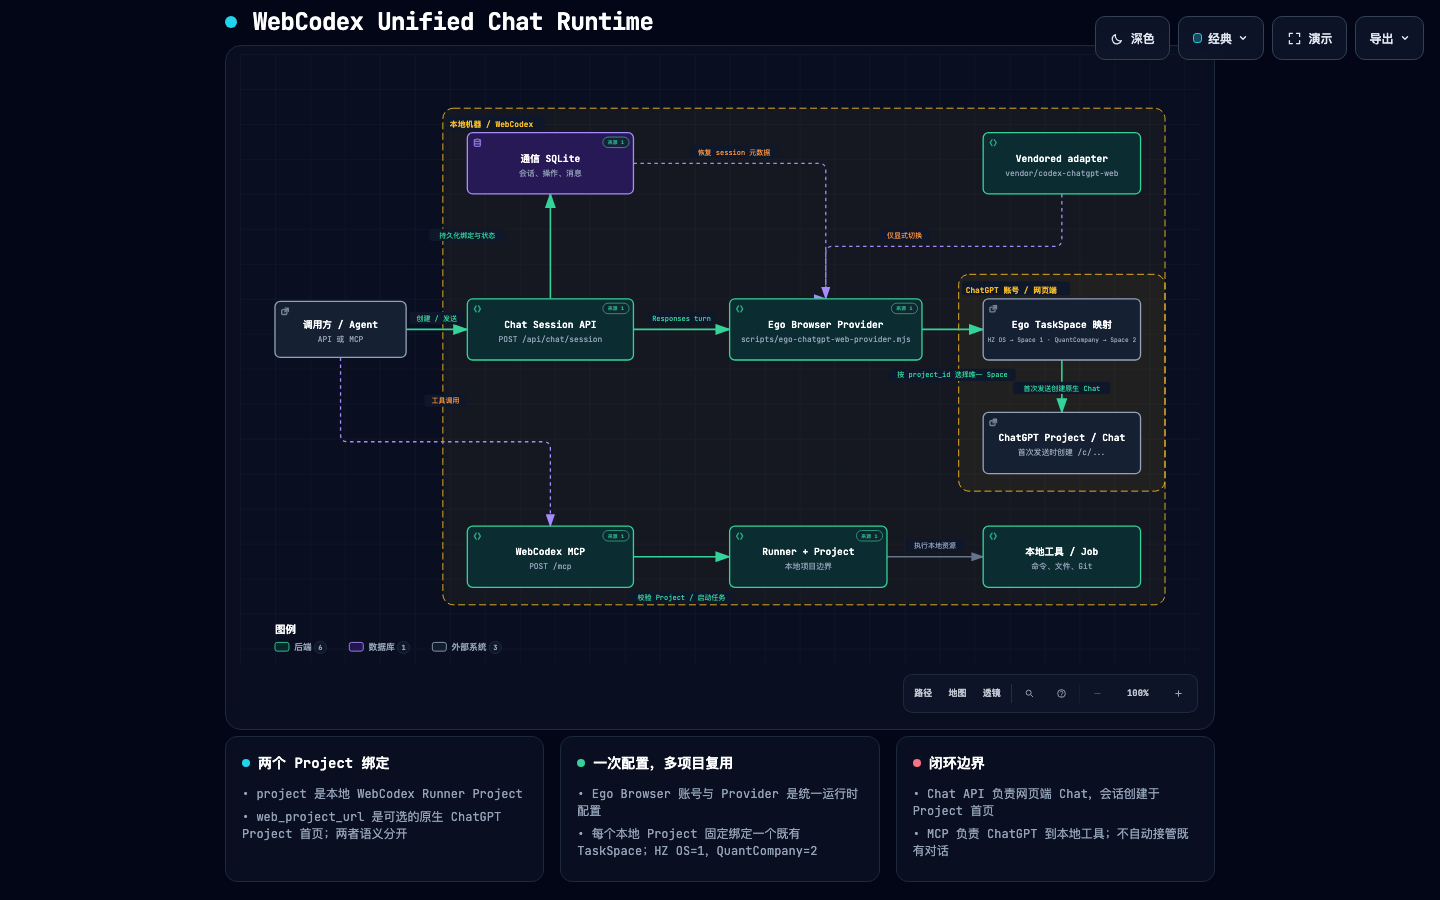
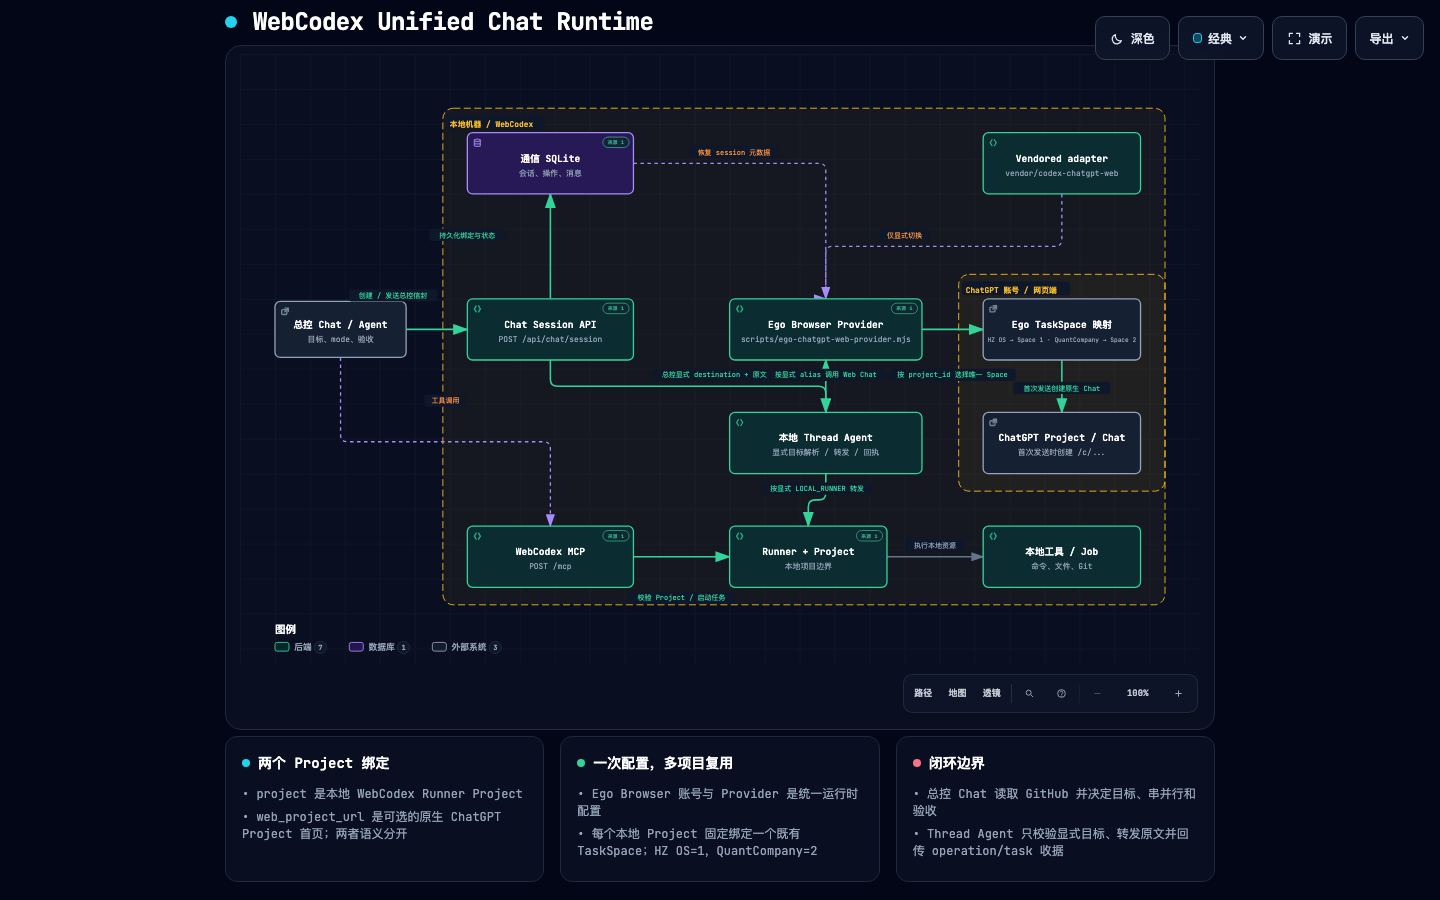
docs: keep routing decisions in controller chat

diff --git a/docs/architecture/archify/runtime.architecture.html b/docs/architecture/archify/runtime.architecture.html
@@ -5161,28 +5161,30 @@ OTHER DEALINGS IN THE FONT SOFTWARE.
         <rect data-graph-role="structural-frame" data-composition-frame-kind="region" data-composition-frame-id="1" data-composition-frame-label="ChatGPT 账号 / 网页端" x="822" y="252" width="236" height="248" rx="12" class="c-region" stroke-width="1"/>
 
         <!-- Connection paths (before components for correct z-order) -->
-        <path data-edge-from="caller" data-edge-to="chat_api" data-edge-label="创建 / 发送" data-edge-key="0" data-edge-id="caller-chat" data-composition-points="190,315;225,315;225,315;260,315" d="M 190 315 L 225 315 L 225 315 L 260 315" class="a-emphasis" stroke-width="1.8" marker-end="url(#arrowhead-emphasis)"/>
+        <path data-edge-from="caller" data-edge-to="chat_api" data-edge-label="创建 / 发送总控信封" data-edge-key="0" data-edge-id="caller-chat" data-composition-points="190,315;225,315;225,315;260,315" d="M 190 315 L 225 315 L 225 315 L 260 315" class="a-emphasis" stroke-width="1.8" marker-end="url(#arrowhead-emphasis)"/>
         <path data-edge-from="caller" data-edge-to="local_mcp" data-edge-label="工具调用" data-edge-key="1" data-edge-id="caller-mcp" data-composition-points="115,347;115,443.5;355,443.5;355,540" d="M 115 347 L 115 435.5 Q 115 443.5 123 443.5 L 347 443.5 Q 355 443.5 355 451.5 L 355 540" class="a-dashed" stroke-width="1.5" marker-end="url(#arrowhead-dashed)"/>
         <path data-edge-from="chat_api" data-edge-to="store" data-edge-label="持久化绑定与状态" data-edge-key="2" data-edge-id="chat-store" data-composition-points="355,280;355,220;355,220;355,160" d="M 355 280 L 355 220 L 355 220 L 355 160" class="a-emphasis" stroke-width="1.8" marker-end="url(#arrowhead-emphasis)"/>
         <path data-edge-from="local_mcp" data-edge-to="runner" data-edge-label="校验 Project / 启动任务" data-edge-key="3" data-edge-id="mcp-runner" data-composition-points="450,575;505,575;505,575;560,575" d="M 450 575 L 505 575 L 505 575 L 560 575" class="a-emphasis" stroke-width="1.8" marker-end="url(#arrowhead-emphasis)"/>
-        <path data-edge-from="chat_api" data-edge-to="provider" data-edge-label="Responses turn" data-edge-key="4" data-edge-id="chat-provider" data-composition-points="450,315;505,315;505,315;560,315" d="M 450 315 L 505 315 L 505 315 L 560 315" class="a-emphasis" stroke-width="1.8" marker-end="url(#arrowhead-emphasis)"/>
-        <path data-edge-from="provider" data-edge-to="taskspace" data-edge-label="按 project_id 选择唯一 Space" data-edge-key="5" data-edge-id="provider-taskspace" data-composition-points="780,315;815,315;815,315;850,315" d="M 780 315 L 815 315 L 815 315 L 850 315" class="a-emphasis" stroke-width="1.8" marker-end="url(#arrowhead-emphasis)"/>
-        <path data-edge-from="taskspace" data-edge-to="web_project" data-edge-label="首次发送创建原生 Chat" data-edge-key="6" data-edge-id="taskspace-project" data-composition-points="940,350;940,410" d="M 940 350 L 940 410" class="a-emphasis" stroke-width="1.8" marker-end="url(#arrowhead-emphasis)"/>
-        <path data-edge-from="runner" data-edge-to="local_tools" data-edge-label="执行本地资源" data-edge-key="7" data-edge-id="runner-tools" data-composition-points="740,575;795,575;795,575;850,575" d="M 740 575 L 795 575 L 795 575 L 850 575" class="a-default" stroke-width="1.5" marker-end="url(#arrowhead)"/>
-        <path data-edge-from="fallback" data-edge-to="provider" data-edge-label="仅显式切换" data-edge-key="8" data-edge-id="fallback-provider" data-composition-points="940,160;940,220;670,220;670,280" d="M 940 160 L 940 212 Q 940 220 932 220 L 678 220 Q 670 220 670 228 L 670 280" class="a-dashed" stroke-width="1.5" marker-end="url(#arrowhead-dashed)"/>
-        <path data-edge-from="store" data-edge-to="provider" data-edge-label="恢复 session 元数据" data-edge-key="9" data-edge-id="store-provider" data-composition-points="450,125;470,125;670,125;670,280;670,280" d="M 450 125 L 462 125 Q 470 125 478 125 L 662 125 Q 670 125 670 133 L 670 280 L 670 280" class="a-dashed" stroke-width="1.5" marker-end="url(#arrowhead-dashed)"/>
+        <path data-edge-from="thread_agent" data-edge-to="provider" data-edge-label="按显式 alias 调用 Web Chat" data-edge-key="4" data-edge-id="chat-provider" data-composition-points="670,410;670,380;670,380;670,350" d="M 670 410 L 670 380 L 670 380 L 670 350" class="a-emphasis" stroke-width="1.8" marker-end="url(#arrowhead-emphasis)"/>
+        <path data-edge-from="chat_api" data-edge-to="thread_agent" data-edge-label="总控显式 destination + 原文" data-edge-key="5" data-edge-id="chat-thread-agent" data-composition-points="355,350;355,380;670,380;670,410" d="M 355 350 L 355 372 Q 355 380 363 380 L 662 380 Q 670 380 670 388 L 670 410" class="a-emphasis" stroke-width="1.8" marker-end="url(#arrowhead-emphasis)"/>
+        <path data-edge-from="thread_agent" data-edge-to="runner" data-edge-label="按显式 LOCAL_RUNNER 转发" data-edge-key="6" data-edge-id="thread-runner" data-composition-points="670,480;670,510;650,510;650,540" d="M 670 480 L 670 502 Q 670 510 662 510 L 658 510 Q 650 510 650 518 L 650 540" class="a-emphasis" stroke-width="1.8" marker-end="url(#arrowhead-emphasis)"/>
+        <path data-edge-from="provider" data-edge-to="taskspace" data-edge-label="按 project_id 选择唯一 Space" data-edge-key="7" data-edge-id="provider-taskspace" data-composition-points="780,315;815,315;815,315;850,315" d="M 780 315 L 815 315 L 815 315 L 850 315" class="a-emphasis" stroke-width="1.8" marker-end="url(#arrowhead-emphasis)"/>
+        <path data-edge-from="taskspace" data-edge-to="web_project" data-edge-label="首次发送创建原生 Chat" data-edge-key="8" data-edge-id="taskspace-project" data-composition-points="940,350;940,410" d="M 940 350 L 940 410" class="a-emphasis" stroke-width="1.8" marker-end="url(#arrowhead-emphasis)"/>
+        <path data-edge-from="runner" data-edge-to="local_tools" data-edge-label="执行本地资源" data-edge-key="9" data-edge-id="runner-tools" data-composition-points="740,575;795,575;795,575;850,575" d="M 740 575 L 795 575 L 795 575 L 850 575" class="a-default" stroke-width="1.5" marker-end="url(#arrowhead)"/>
+        <path data-edge-from="fallback" data-edge-to="provider" data-edge-label="仅显式切换" data-edge-key="10" data-edge-id="fallback-provider" data-composition-points="940,160;940,220;670,220;670,280" d="M 940 160 L 940 212 Q 940 220 932 220 L 678 220 Q 670 220 670 228 L 670 280" class="a-dashed" stroke-width="1.5" marker-end="url(#arrowhead-dashed)"/>
+        <path data-edge-from="store" data-edge-to="provider" data-edge-label="恢复 session 元数据" data-edge-key="11" data-edge-id="store-provider" data-composition-points="450,125;470,125;670,125;670,280;670,280" d="M 450 125 L 462 125 Q 470 125 478 125 L 662 125 Q 670 125 670 133 L 670 280 L 670 280" class="a-dashed" stroke-width="1.5" marker-end="url(#arrowhead-dashed)"/>
 
         <!-- Components -->
-        <g id="node-caller" data-node-id="caller" data-node-label="调用方 / Agent" tabindex="0" role="button" aria-label="聚焦调用方 / Agent，API 或 MCP, 架构组件" aria-pressed="false" data-node-kind="external" data-node-sublabel="API 或 MCP" data-node-context="架构组件">
-          <title>调用方 / Agent · API 或 MCP · 架构组件</title>
+        <g id="node-caller" data-node-id="caller" data-node-label="总控 Chat / Agent" tabindex="0" role="button" aria-label="聚焦总控 Chat / Agent，目标、mode、验收, 架构组件" aria-pressed="false" data-node-kind="external" data-node-sublabel="目标、mode、验收" data-node-context="架构组件">
+          <title>总控 Chat / Agent · 目标、mode、验收 · 架构组件</title>
           <rect x="40" y="283" width="150" height="64" rx="6" class="c-mask"/>
           <rect x="40" y="283" width="150" height="64" rx="6" class="c-external" stroke-width="1.5"/>
           <g aria-hidden="true" data-semantic-sigil="external" class="semantic-sigil s-external" transform="translate(46 289) scale(0.6875)">
             <rect x="2.5" y="5" width="8.5" height="8" rx="1.5"/>
             <path d="M8 2.5h5.5V8M13.5 2.5 7.5 8.5"/>
           </g>
-          <text data-node-label="" data-detail-anchor="" x="115" y="313" class="t-primary" font-size="11" font-weight="600" text-anchor="middle">调用方 / Agent</text>
-        <text data-detail="context" x="115" y="329" class="t-muted" font-size="9" text-anchor="middle">API 或 MCP</text>
+          <text data-node-label="" data-detail-anchor="" x="115" y="313" class="t-primary" font-size="11" font-weight="600" text-anchor="middle">总控 Chat / Agent</text>
+        <text data-detail="context" x="115" y="329" class="t-muted" font-size="9" text-anchor="middle">目标、mode、验收</text>
         </g>
 
         <g id="node-chat_api" data-node-id="chat_api" data-node-label="Chat Session API" tabindex="0" role="button" aria-label="聚焦Chat Session API，POST /api/chat/session, 本地机器 / WebCodex" aria-pressed="false" data-node-kind="backend" data-node-sublabel="POST /api/chat/session" data-node-tag="create · send · read" data-node-context="本地机器 / WebCodex">
@@ -5245,6 +5247,18 @@ OTHER DEALINGS IN THE FONT SOFTWARE.
         <text data-detail="fine" x="670" y="342" class="t-backend" font-size="7" text-anchor="middle">shared runtime</text>
         </g>
 
+        <g id="node-thread_agent" data-node-id="thread_agent" data-node-label="本地 Thread Agent" tabindex="0" role="button" aria-label="聚焦本地 Thread Agent，显式目标解析 / 转发 / 回执, 本地机器 / WebCodex" aria-pressed="false" data-node-kind="backend" data-node-sublabel="显式目标解析 / 转发 / 回执" data-node-tag="gpt-6-astra · low" data-node-context="本地机器 / WebCodex">
+          <title>本地 Thread Agent · 显式目标解析 / 转发 / 回执 · 本地机器 / WebCodex · gpt-6-astra · low</title>
+          <rect x="560" y="410" width="220" height="70" rx="6" class="c-mask"/>
+          <rect x="560" y="410" width="220" height="70" rx="6" class="c-backend" stroke-width="1.5"/>
+          <g aria-hidden="true" data-semantic-sigil="backend" class="semantic-sigil s-backend" transform="translate(566 416) scale(0.6875)">
+            <path d="M6 3 3 8l3 5M10 3l3 5-3 5"/>
+          </g>
+          <text data-node-label="" data-detail-anchor="" x="670" y="443" class="t-primary" font-size="11" font-weight="600" text-anchor="middle">本地 Thread Agent</text>
+        <text data-detail="context" x="670" y="459" class="t-muted" font-size="9" text-anchor="middle">显式目标解析 / 转发 / 回执</text>
+        <text data-detail="fine" x="670" y="472" class="t-backend" font-size="7" text-anchor="middle">gpt-6-astra · low</text>
+        </g>
+
         <g id="node-local_tools" data-node-id="local_tools" data-node-label="本地工具 / Job" tabindex="0" role="button" aria-label="聚焦本地工具 / Job，命令、文件、Git, 本地机器 / WebCodex" aria-pressed="false" data-node-kind="backend" data-node-sublabel="命令、文件、Git" data-node-context="本地机器 / WebCodex">
           <title>本地工具 / Job · 命令、文件、Git · 本地机器 / WebCodex</title>
           <rect x="850" y="540" width="180" height="70" rx="6" class="c-mask"/>
@@ -5295,9 +5309,9 @@ OTHER DEALINGS IN THE FONT SOFTWARE.
         </g>
 
         <!-- Connection labels -->
-        <g data-detail="context" data-edge-from="caller" data-edge-to="chat_api" data-edge-label="创建 / 发送" data-edge-key="0" data-edge-id="caller-chat">
-          <rect x="193.6" y="295" width="62.8" height="14" rx="3" class="c-mask"/>
-          <text x="225" y="305" class="t-backend" font-size="8" text-anchor="middle">创建 / 发送</text>
+        <g data-detail="context" data-edge-from="caller" data-edge-to="chat_api" data-edge-label="创建 / 发送总控信封" data-edge-key="0" data-edge-id="caller-chat">
+          <rect x="124.4" y="269" width="101.2" height="14" rx="3" class="c-mask"/>
+          <text x="175" y="279" class="t-backend" font-size="8" text-anchor="middle">创建 / 发送总控信封</text>
         </g>
         <g data-detail="context" data-edge-from="caller" data-edge-to="local_mcp" data-edge-label="工具调用" data-edge-key="1" data-edge-id="caller-mcp">
           <rect x="210.8" y="389.5" width="48.4" height="14" rx="3" class="c-mask"/>
@@ -5311,27 +5325,35 @@ OTHER DEALINGS IN THE FONT SOFTWARE.
           <rect x="444.8" y="615" width="120.39999999999999" height="14" rx="3" class="c-mask"/>
           <text x="505" y="625" class="t-backend" font-size="8" text-anchor="middle">校验 Project / 启动任务</text>
         </g>
-        <g data-detail="context" data-edge-from="chat_api" data-edge-to="provider" data-edge-label="Responses turn" data-edge-key="4" data-edge-id="chat-provider">
-          <rect x="466.4" y="295" width="77.2" height="14" rx="3" class="c-mask"/>
-          <text x="505" y="305" class="t-backend" font-size="8" text-anchor="middle">Responses turn</text>
+        <g data-detail="context" data-edge-from="thread_agent" data-edge-to="provider" data-edge-label="按显式 alias 调用 Web Chat" data-edge-key="4" data-edge-id="chat-provider">
+          <rect x="602.6" y="360" width="134.8" height="14" rx="3" class="c-mask"/>
+          <text x="670" y="370" class="t-backend" font-size="8" text-anchor="middle">按显式 alias 调用 Web Chat</text>
         </g>
-        <g data-detail="context" data-edge-from="provider" data-edge-to="taskspace" data-edge-label="按 project_id 选择唯一 Space" data-edge-key="5" data-edge-id="provider-taskspace">
+        <g data-detail="context" data-edge-from="chat_api" data-edge-to="thread_agent" data-edge-label="总控显式 destination + 原文" data-edge-key="5" data-edge-id="chat-thread-agent">
+          <rect x="472.7" y="360" width="139.6" height="14" rx="3" class="c-mask"/>
+          <text x="542.5" y="370" class="t-backend" font-size="8" text-anchor="middle">总控显式 destination + 原文</text>
+        </g>
+        <g data-detail="context" data-edge-from="thread_agent" data-edge-to="runner" data-edge-label="按显式 LOCAL_RUNNER 转发" data-edge-key="6" data-edge-id="thread-runner">
+          <rect x="597.4" y="490" width="125.19999999999999" height="14" rx="3" class="c-mask"/>
+          <text x="660" y="500" class="t-backend" font-size="8" text-anchor="middle">按显式 LOCAL_RUNNER 转发</text>
+        </g>
+        <g data-detail="context" data-edge-from="provider" data-edge-to="taskspace" data-edge-label="按 project_id 选择唯一 Space" data-edge-key="7" data-edge-id="provider-taskspace">
           <rect x="742.8" y="360" width="144.4" height="14" rx="3" class="c-mask"/>
           <text x="815" y="370" class="t-backend" font-size="8" text-anchor="middle">按 project_id 选择唯一 Space</text>
         </g>
-        <g data-detail="context" data-edge-from="taskspace" data-edge-to="web_project" data-edge-label="首次发送创建原生 Chat" data-edge-key="6" data-edge-id="taskspace-project">
+        <g data-detail="context" data-edge-from="taskspace" data-edge-to="web_project" data-edge-label="首次发送创建原生 Chat" data-edge-key="8" data-edge-id="taskspace-project">
           <rect x="884.6" y="375" width="110.8" height="14" rx="3" class="c-mask"/>
           <text x="940" y="385" class="t-backend" font-size="8" text-anchor="middle">首次发送创建原生 Chat</text>
         </g>
-        <g data-detail="context" data-edge-from="runner" data-edge-to="local_tools" data-edge-label="执行本地资源" data-edge-key="7" data-edge-id="runner-tools">
+        <g data-detail="context" data-edge-from="runner" data-edge-to="local_tools" data-edge-label="执行本地资源" data-edge-key="9" data-edge-id="runner-tools">
           <rect x="761.2" y="555" width="67.6" height="14" rx="3" class="c-mask"/>
           <text x="795" y="565" class="t-muted" font-size="8" text-anchor="middle">执行本地资源</text>
         </g>
-        <g data-detail="context" data-edge-from="fallback" data-edge-to="provider" data-edge-label="仅显式切换" data-edge-key="8" data-edge-id="fallback-provider">
+        <g data-detail="context" data-edge-from="fallback" data-edge-to="provider" data-edge-label="仅显式切换" data-edge-key="10" data-edge-id="fallback-provider">
           <rect x="731" y="200" width="58" height="14" rx="3" class="c-mask"/>
           <text x="760" y="210" class="t-messagebus" font-size="8" text-anchor="middle">仅显式切换</text>
         </g>
-        <g data-detail="context" data-edge-from="store" data-edge-to="provider" data-edge-label="恢复 session 元数据" data-edge-key="9" data-edge-id="store-provider">
+        <g data-detail="context" data-edge-from="store" data-edge-to="provider" data-edge-label="恢复 session 元数据" data-edge-key="11" data-edge-id="store-provider">
           <rect x="514.4" y="105" width="101.2" height="14" rx="3" class="c-mask"/>
           <text x="565" y="115" class="t-messagebus" font-size="8" text-anchor="middle">恢复 session 元数据</text>
         </g>
@@ -5577,8 +5599,8 @@ OTHER DEALINGS IN THE FONT SOFTWARE.
           <h3>闭环边界</h3>
         </div>
         <ul>
-          <li>&bull; Chat API 负责网页端 Chat，会话创建于 Project 首页</li>
-          <li>&bull; MCP 负责 ChatGPT 到本地工具；不自动接管既有对话</li>
+          <li>&bull; 总控 Chat 读取 GitHub 并决定目标、串并行和验收</li>
+          <li>&bull; Thread Agent 只校验显式目标、转发原文并回传 operation/task 收据</li>
         </ul>
       </div>
     </div>
